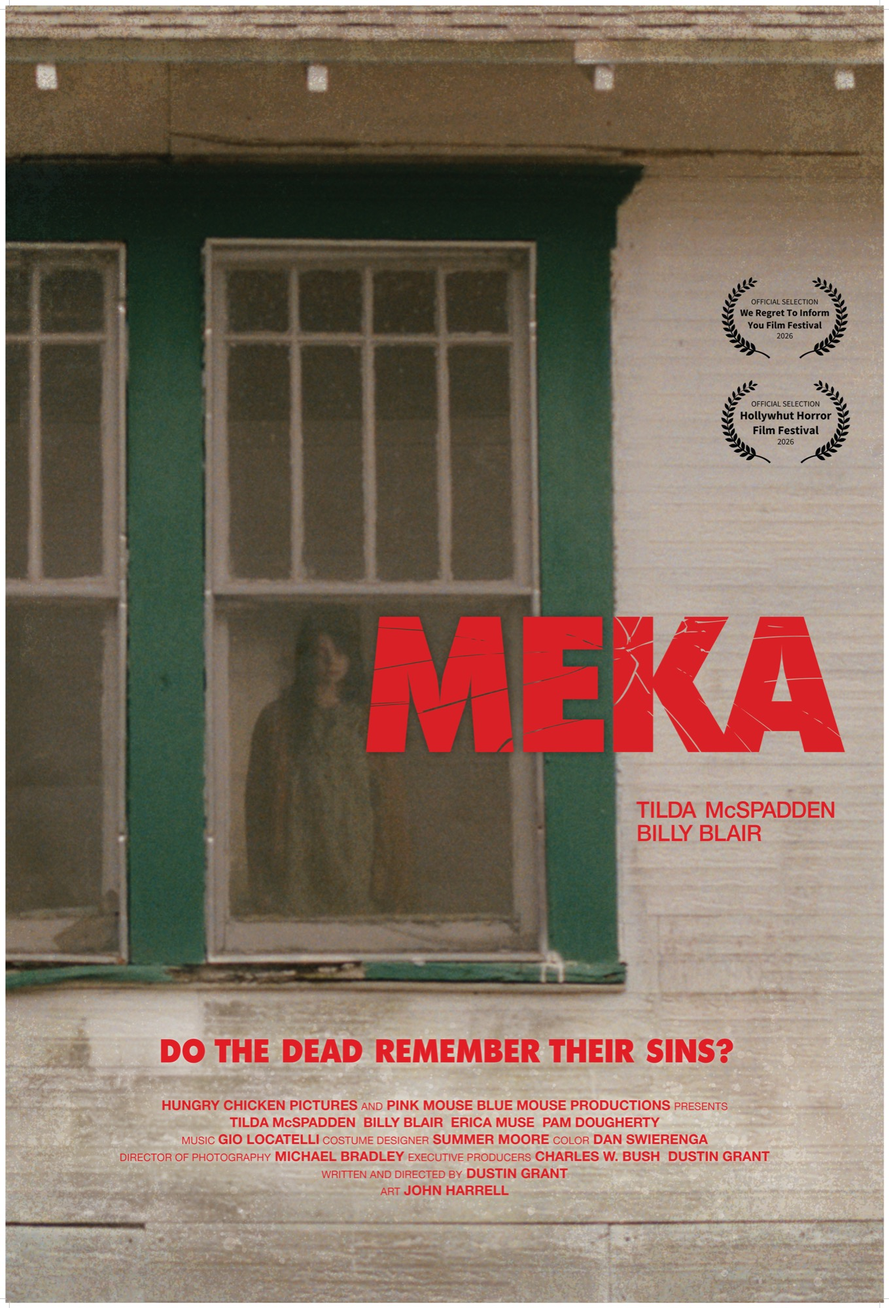
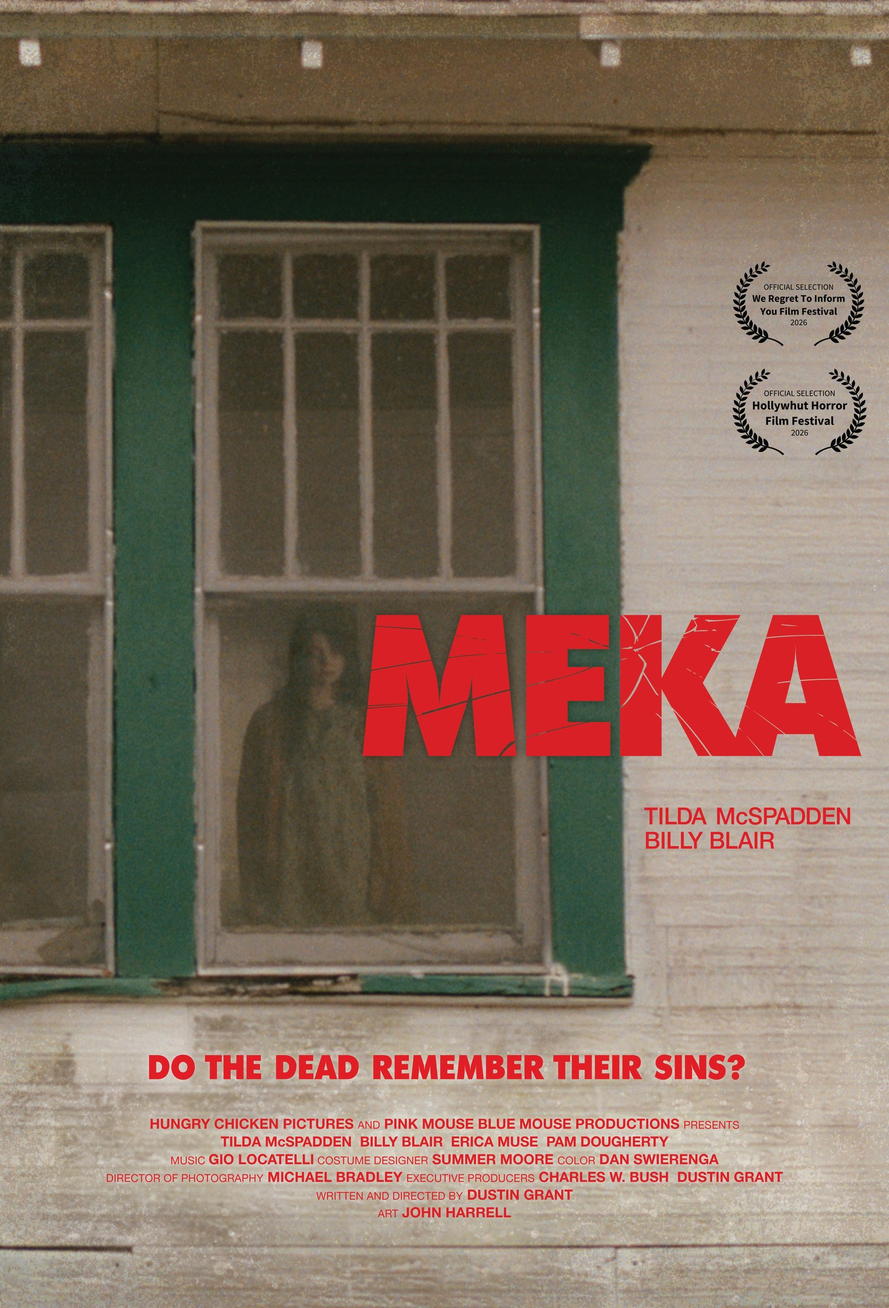
Crop 2% border from festival poster asset

Changed region(s): [[0.0, 0.0, 1.0, 1.0], [0.9272, 0.837, 0.9581, 0.868], [0.7726, 0.682, 0.8035, 0.713]]

diff --git a/index.html b/index.html
@@ -88,7 +88,7 @@
 
                 <!-- Right: Poster Asset -->
                 <div class="split-slide-poster">
-                    <img src="assets/poster.jpg?v=3" alt="MEKA Movie Poster - Official Selection" class="poster-image-split" loading="lazy">
+                    <img src="assets/poster.jpg?v=4" alt="MEKA Movie Poster - Official Selection" class="poster-image-split" loading="lazy">
                 </div>
             </div>
         </section>
